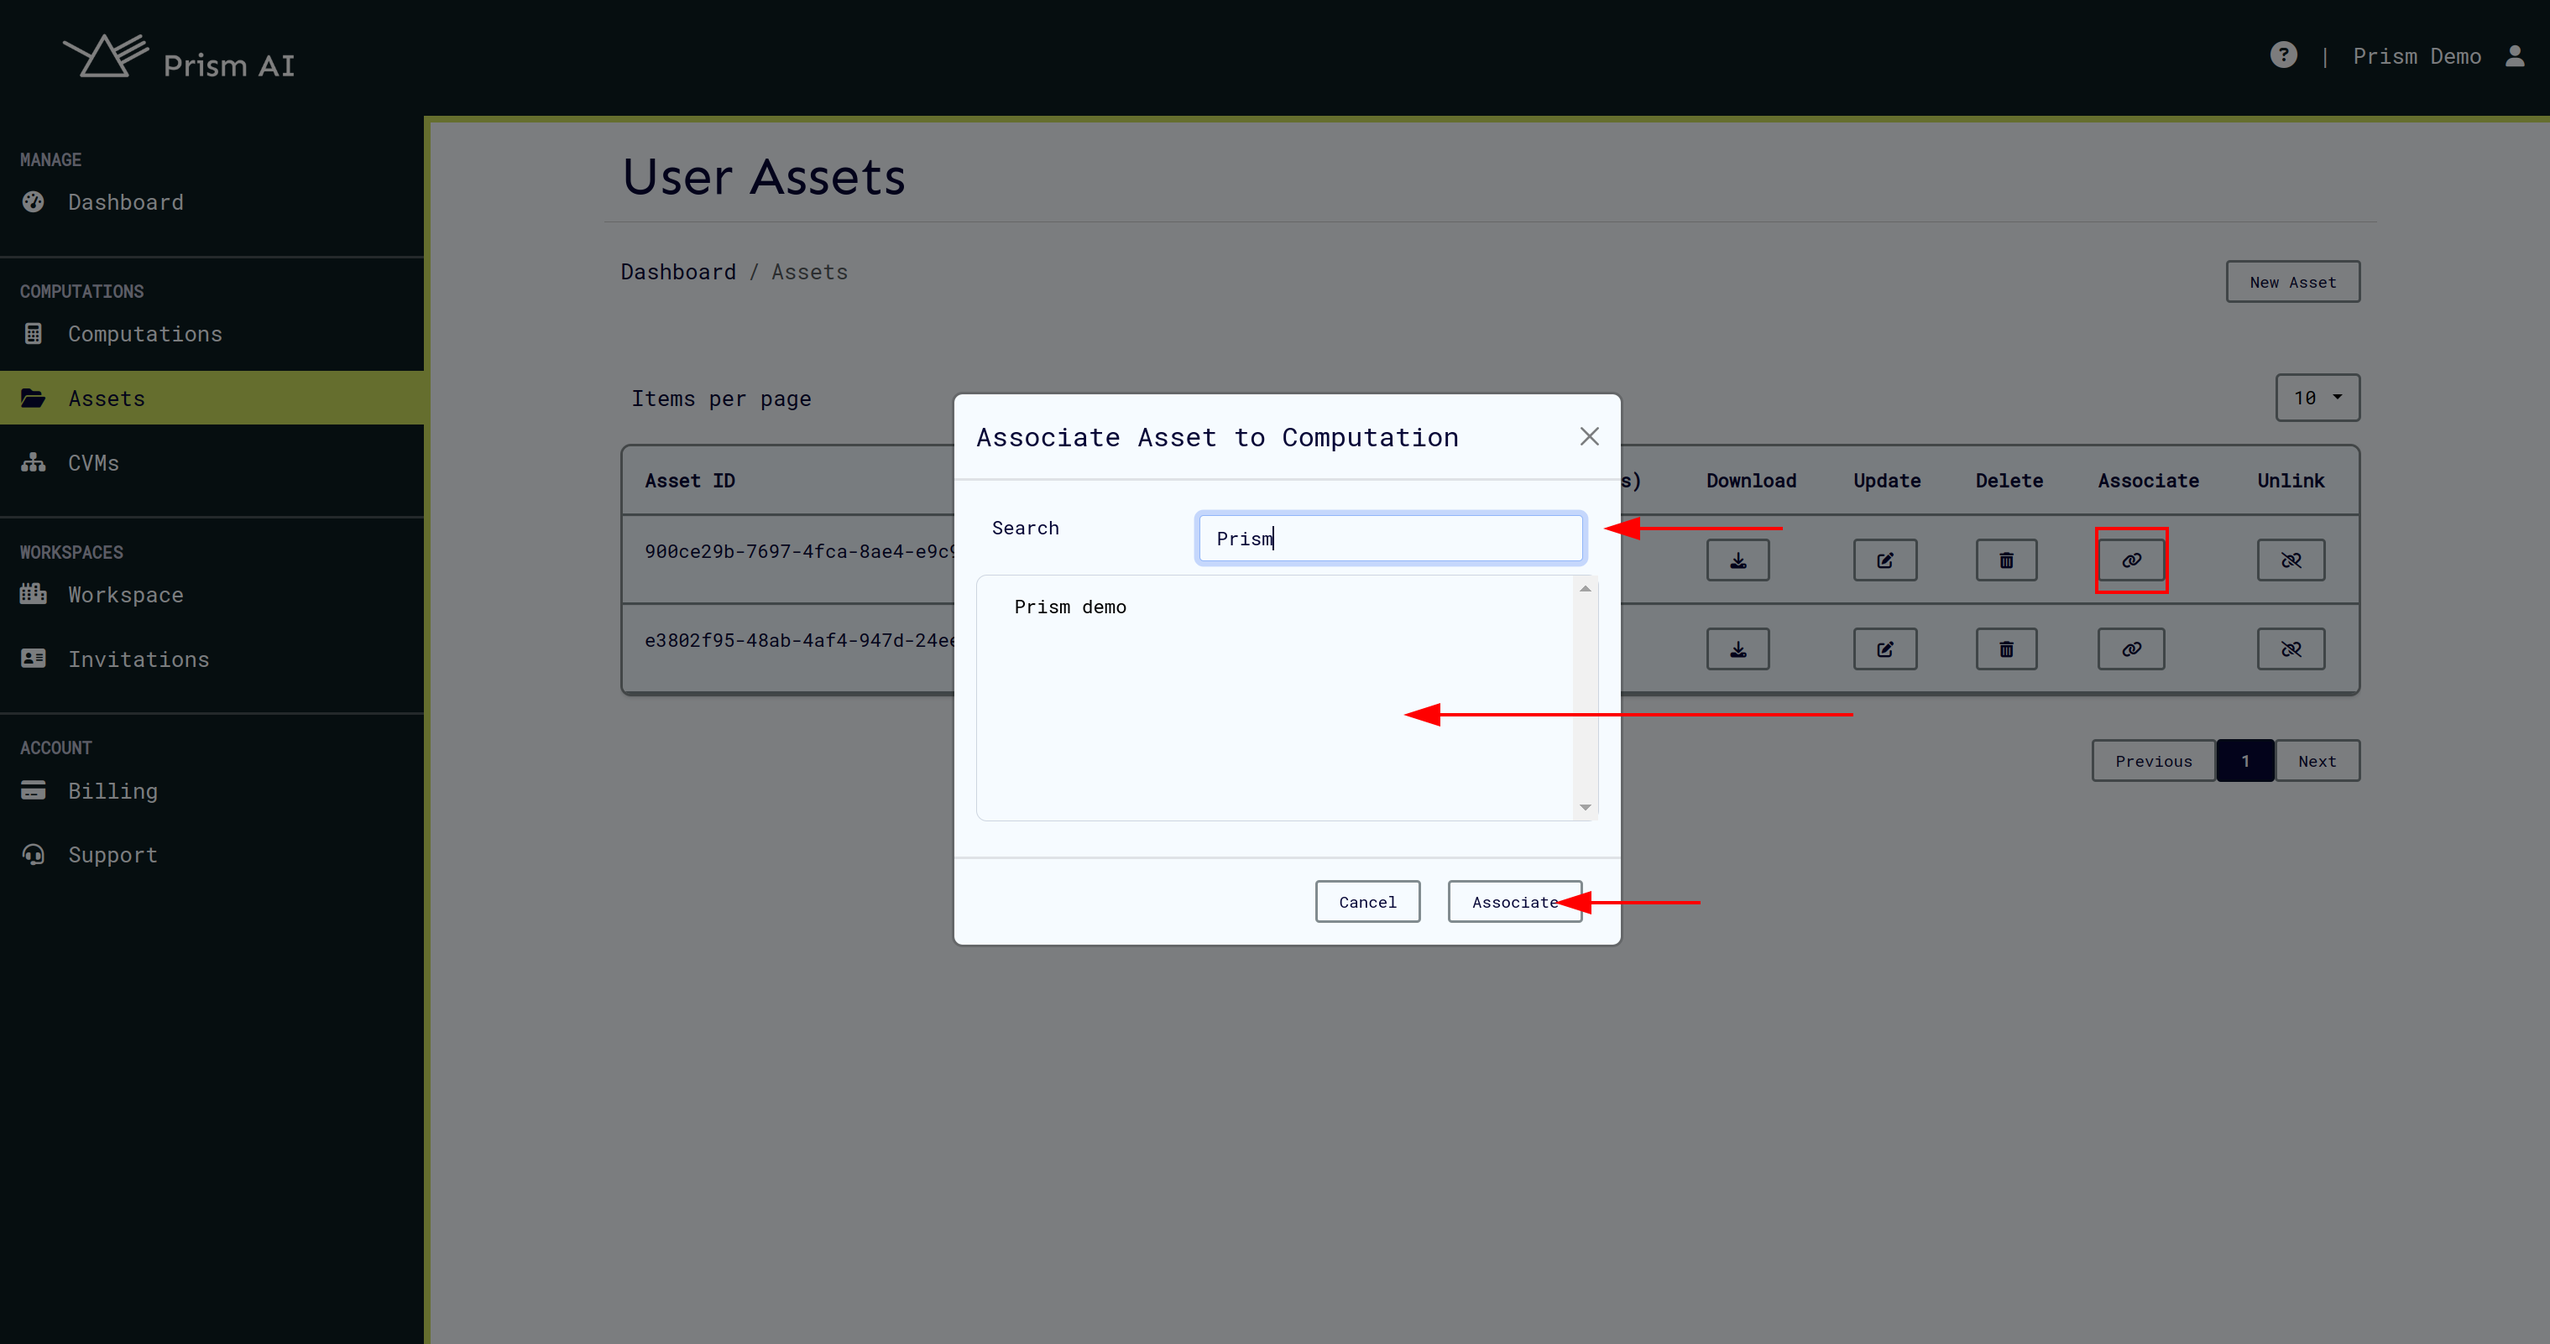
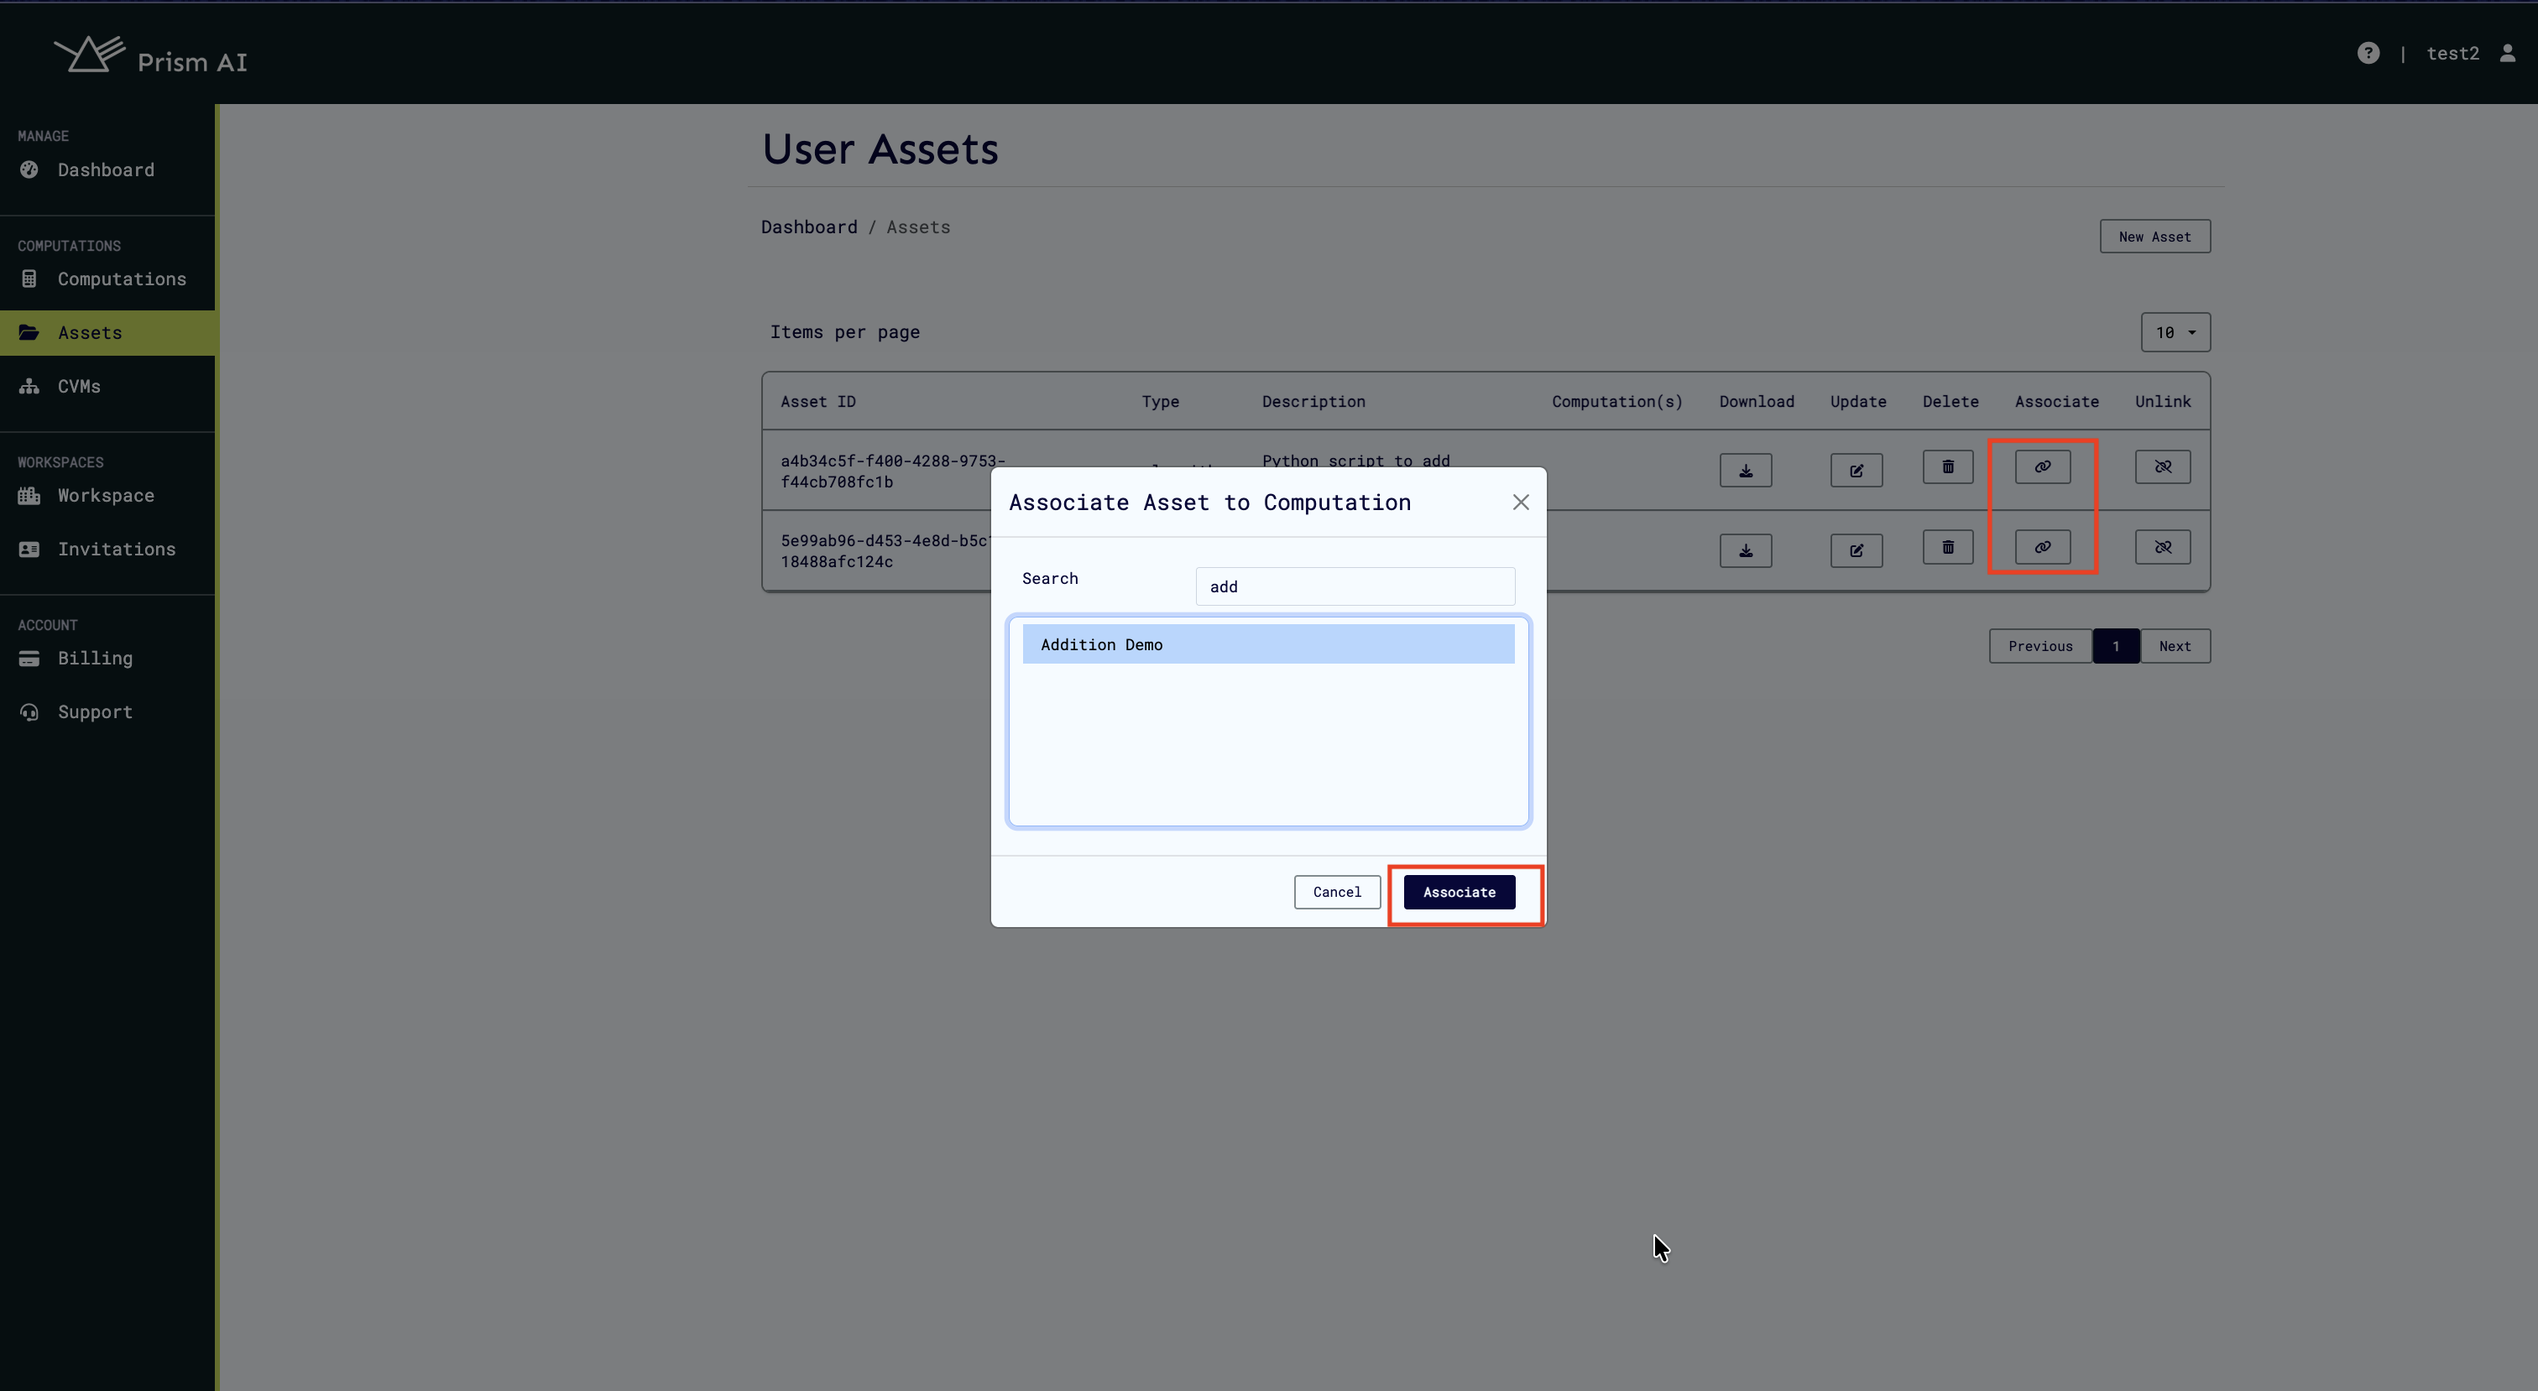
Make flow linear

diff --git a/docs/getting-started.md b/docs/getting-started.md
@@ -6,6 +6,26 @@ Welcome to Prism! This guide will walk you through setting up your first workspa
 
 Prism is a confidential computing platform that enables secure multi-party computations using Trusted Execution Environments (TEEs). It allows multiple parties to collaborate on computations without exposing their sensitive data or algorithms.
 
+## What You'll Build
+
+In this guide, you'll run a **simple addition computation** that adds numbers from a dataset. This demonstrates how one party can provide an algorithm while another provides data, with results going to a third party—all without anyone seeing each other's sensitive information.
+
+**The Scenario:**
+
+- **Algorithm Provider**: Provides a Python script that adds numbers
+- **Dataset Provider**: Provides a list of numbers to add
+- **Result Consumer**: Receives the sum of all numbers
+
+## Prerequisites
+
+Before you begin, make sure you have:
+
+1. **Cocos CLI Tool**: Required for key generation, file uploads, and retrieving results
+   - Download and install from: [Cocos CLI Repository](https://github.com/ultravioletrs/cocos/blob/main/cli/README.md)
+   - Verify installation: `./build/cocos-cli --help` (should return some common CLI commands)
+
+> **Important**: The Cocos CLI is essential for most operations in this guide, including generating keys, uploading algorithms/datasets, and downloading results. Install it now before proceeding.
+
 ## Quick Start Overview
 
 1. **Account Setup** - Create your account and log in
@@ -82,42 +102,33 @@ If you've been invited to a workspace:
 
 ## 3. Set Up Your Keys
 
-Keys enable secure, encrypted collaboration in Prism. They ensure only you can upload your assets and only you can decrypt your results—even Prism can't access your private data.
+Keys serve as your **digital signature for identity verification** in Prism. They prove you authorized uploads and downloads—like a secure signature that can't be forged.
+
+> **Important**: These keys are for identity/authentication only. All data encryption happens automatically via aTLS (attested TLS) within the secure enclave.
 
 ### Why Two Keys?
 
-Prism uses **asymmetric cryptography** with a public/private key pair:
+- **Public key**: Upload to Prism to verify your identity when creating assets
+- **Private key**: Keep secret on your machine to sign your uploads and downloads
 
-- **Public key** (shareable): Others use this to encrypt data *for you* and verify *you* signed something
-- **Private key** (secret): Only you use this to decrypt data *meant for you* and sign data *from you*
+### Generate Your Keys
 
-### Generate Your Key Pair
-
-Use our [CLI tool](https://docs.cocos.ultraviolet.rs/cli#command-keys):
+Use the [Cocos CLI tool](https://docs.cocos.ultraviolet.rs/cli#command-keys):
 
 ```bash
 ./build/cocos-cli keys -k rsa
 ```
 
-This will generate a key pair of type rsa.
-
 ![Generated keys](../static/img/getting_started_keys.png)
 
 **Supported types:** `rsa`, `ecdsa`, `ed25519`
 
-This creates:
+This creates two files:
 
-- `public_key.pem` → Upload to Prism when creating assets
-- `private_key.pem` → Keep secret on your machine
+- `public_key.pem` → You'll upload this to Prism shortly
+- `private_key.pem` → Keep this secure and never share it
 
-> **Note:** You'll upload your public key when creating computation assets (next steps), not to your profile. Generate your keys now so they're ready.
-
-**Secure Your Private Key as you'll need it to:**
-
-- Upload algorithms/datasets (proves you authorized the upload)
-- Download results (decrypts output meant for you)
-
-> **Prism never sees your private key.** All signing and decryption happens locally on your machine—this is zero-trust security.
+> **Security Note**: Your private key never leaves your machine. Prism never has access to it.
 
 ## 4. CVM (Confidential Virtual Machine) Setup
 
@@ -163,6 +174,7 @@ A computation is a secure collaborative task in Prism. It brings together an alg
 ### The Problem It Solves
 
 **Problem**: One party has valuable data they can't share (due to privacy, regulations, or competitive reasons), and another party has an algorithm they want to keep proprietary. Normally, collaboration is difficult.
+
 **Prism's solution**: The algorithm runs on the data inside an encrypted environment. The data owner never sees the algorithm, the algorithm owner never sees the data, and the platform can't access either. Only the designated party receives the encrypted results.
 This enables secure collaboration that would otherwise be legally or commercially impossible.
 
@@ -190,10 +202,10 @@ Let's walk through these steps.
 
 1. Navigate to **Computations** in your workspace
 2. Click **New Computation**
-3. Fill in computation details:
-   - **Name**: Descriptive computation name
-   - **Description**: Purpose and expected outcomes
-   - **Agent Configuration**: In enclave agent TLS configurations
+2. Fill in details:
+   - **Name**: "Addition Demo"
+   - **Description**: "Simple addition of numbers"
+   - **Agent Configuration**: Leave default TLS settings
 
 ![New Computation](../static/img/ui/new_computation.png)
 
@@ -226,57 +238,108 @@ Each role has specific actions that determine what users can do—like `view`, `
 
 #### Step 2: Assign User Roles
 
-1. Select the role you want to populate (Algorithm Provider, Dataset Provider, or Result Consumer)
-2. Click **Add Members**
-3. Search for workspace users
-4. Select users and confirm assignment
+3. **If you're the only user in your workspace**: You automatically have the Owner role. You still do not have ability to act as Algorithm Provider, Dataset Provider, and Result Consumer. To add this:
+   - Click on the **Owner** role
+   ![Roles Tab](../static/img/ui/edit_owner_role.png)
+   - Click **Add Actions** or edit the role
+   - Add the actions: `algo_provider`, `dataset_provider`, and `result_consumer` to your Owner role
+   ![Edit Owner Role](../static/img/ui/add_roles.png)
+   - This allows you to perform all three functions in this demo as owner, this should be how your role looks like:
+   ![Role added successfully](../static/img/ui/owner_role_success.png)
 
-![Role Assignment](../static/img/ui/view_role.png)
+4. **If you have multiple users**: For each role (Algorithm Provider, Dataset Provider, Result Consumer):
+   - Click on the role
+   ![Role Assignment](../static/img/ui/view_role.png)
+   - Click **Add Members**
+   - Search for workspace users
+   - Select users and confirm assignment
 ![Add User to Role](../static/img/ui/add_user_to_role.png)
 
 > **📝 Note**: Users must already be invited to the workspace before they can be assigned computation roles. A user cannot belong to more than one role, to add permissions you should actions on the required [role](./roles.md).
 
-### Managing Computation Assets
+### Upload a Public Key
 
-#### Creating Assets
+A public key is needed for every computation.
+
+- Click on Upload Public Key - there will be an indicator that no public key is attached
+![Upload public key](../static/img/ui/upload_public_key.png)
+- This opens a box for you to select a public key
+ ![Upload public key success](../static/img/ui/upload_key.png)
+- From the [generated keys here](#generate-your-keys), upload your public key and indicator will disappear as below:
+ ![Upload public key success](../static/img/ui/upload_public_key_success.png)
+
+### Managing Computation Assets
 
 Each role owner needs to create their asset (algorithm, dataset, etc.) and link it to the computation. Assets are cryptographically verified using file hashes and secured using your public/private key pair.
 
-Note: While you can create and link assets through the Prism web interface, certain operations like uploading files and retrieving results require the [Cocos CLI tool](https://github.com/ultravioletrs/cocos/blob/main/cli/README.md). Make sure you have it installed before proceeding.
+> Note: While you create and link assets through the Prism web interface, you require the [Cocos CLI tool](https://github.com/ultravioletrs/cocos/blob/main/cli/README.md) to perform certain operations like uploading files and retrieving results. As this connects you to the CVM and enclave agent via the enclave agent url. Make sure you have the Cocos CLI [installed](#prerequisites) before proceeding.
+
+### Prepare Your Demo Files
+
+For this demo, you'll use:
+
+**Algorithm**: [A Python addition script](https://github.com/ultravioletrs/cocos/blob/main/test/manual/algo/addition.py) `addition.py`
+
+**Dataset**: [List of numbers](https://github.com/ultravioletrs/cocos/blob/main/test/manual/data/iris.csv) (`iris.csv`)
+
+Save these files locally.
+
+### Generate File Hashes
+
+For each file, generate its cryptographic hash using the [Cocos CLI](https://docs.cocos.ultraviolet.rs/cli#command-checksum) to be used in the next step:
+
+```bash
+# Hash the algorithm
+./build/cocos-cli checksum addition.py
+
+# Hash the dataset
+./build/cocos-cli checksum iris.csv
+```
+
+> **Why hashes?** The hash is a unique digital fingerprint that ensures the exact file you specify is used in the computation and hasn't been modified.
+
+### Create Algorithm Asset
 
 1. Navigate to **Assets** → **Create New Asset**
-2. Choose your asset type (Algorithm or Dataset)
-3. Generate the file hash of your algorithm or dataset file using the [Cocos CLI](https://docs.cocos.ultraviolet.rs/cli#command-checksum):
-
-   ```bash
-   ./build/cocos-cli checksum <your_file>
-   ```
-
-   > The `checksum` command creates a hash—a unique digital fingerprint of your file. This ensures the exact same file is used in the computation and hasn't been modified.
-
-4. Fill in the asset details, including:
-   - Asset name and description
-   - File hash from step 3
-
-6. Click **Create Asset**
+2. Select **Algorithm** type
+3. Fill in:
+   - **Name**: "Addition Algorithm"
+   - **Description**: "Python script to add numbers"
+   - **File Hash**: Paste the hash from `addition.py`
 
 ![New Asset](../static/img/ui/new_asset.png)
 
-#### Upload Your Files to the CVM
+4. Click **Create Asset**
 
-After creating the asset metadata in Prism, upload the actual files to the Confidential Virtual Machine (CVM) using the [Cocos CLI](https://docs.cocos.ultraviolet.rs/cli#command-data) with your **private key**:
+### Link Algorithm to Computation
 
-```bash
-# For algorithms
-./build/cocos-cli algo <algo_file> <private_key_file_path>
-
-# For datasets
-./build/cocos-cli data <dataset_path> <private_key_file_path>
-```
-
-> The CLI encrypts your files before uploading them to the CVM, where they remain protected throughout the computation. Your private key ensures only you can perform this upload.
+1. From your **Assets** page, find "Addition Algorithm"
 
 ![User Assets](../static/img/ui/user_assets.png)
+
+2. Click **Associate**
+3. Select "Addition Demo" computation
+4. Confirm
+
+![Associate Asset](../static/img/ui/associate_user_asset.png)
+
+### Create Dataset Asset
+
+Repeat the same process for your dataset:
+
+1. **Assets** → **Create New Asset**
+2. Select **Dataset** type
+3. Fill in:
+   - **Name**: "Numbers to Add"
+   - **Description**: "Sample numbers for addition"
+   - **File Hash**: Paste the hash from `iris.csv`
+![New Asset](../static/img/ui/update_dataset.png)
+4. Click **Create Asset**
+5. Click **Associate** and link to your computation
+![Associate Asset](../static/img/ui/associate_user_asset.png)
+
+There will be a tag that shows the associated computation for each linked asset:
+![Associate Asset Success](../static/img/ui/associate_user_asset_success.png)
 
 #### Upload Your Files to the CVM
 
@@ -309,18 +372,6 @@ More documentation on: [algo](https://docs.cocos.ultraviolet.rs/cli/#command-alg
 **Example output:**
 ![Sample Upload](../static/img/sample_upload.png)
 
-#### Linking Assets to Computations
-
-1. From your assets page, find the relevant asset
-
-![User Assets](../static/img/ui/user_assets.png)
-
-2. Click **Associate**
-3. Search and select the target computation
-4. Confirm the association
-
-![Associate Asset](../static/img/ui/associate_user_asset.png)
-
 ### Running Computations
 
 #### Prerequisites Check
@@ -352,7 +403,7 @@ The **Run Computation** button will be disabled until all requirements are met.
 Once started, you can monitor:
 
 - **Events**: High-level computation milestones
-- **Logs**: Detailed execution information from the inenclave agent
+- **Logs**: Detailed execution information from the in enclave agent
 
 ![Events and Logs](../static/img/ui/logsEvents.png)
 
@@ -378,13 +429,11 @@ export AGENT_GRPC_URL=<agent_ip>:<port>
 You can find the AGENT_GRPC_URL on the computations page as shown:
 ![Agent URL](../static/img/ui/agent_url.png)
 
-Once the computation completes, download and decrypt your results using the [Cocos CLI tool](https://docs.cocos.ultraviolet.rs/cli/#command-result) with your **private key**:
+Once the computation completes, download and decrypt your results using the [Cocos CLI tool](https://docs.cocos.ultraviolet.rs/cli/#command-result) with your **private key** as a digital identity:
 
 ```bash
 ./build/cocos-cli result <private_key_file_path> <output_file_name>
 ```
-
-> The CLI connects to the agent, retrieves the encrypted computation result, and decrypts it using your private key. Only you can decrypt results meant for your role.
 
 **Example output:**
 ![Stop Computation](../static/img/computation_Results.png)
